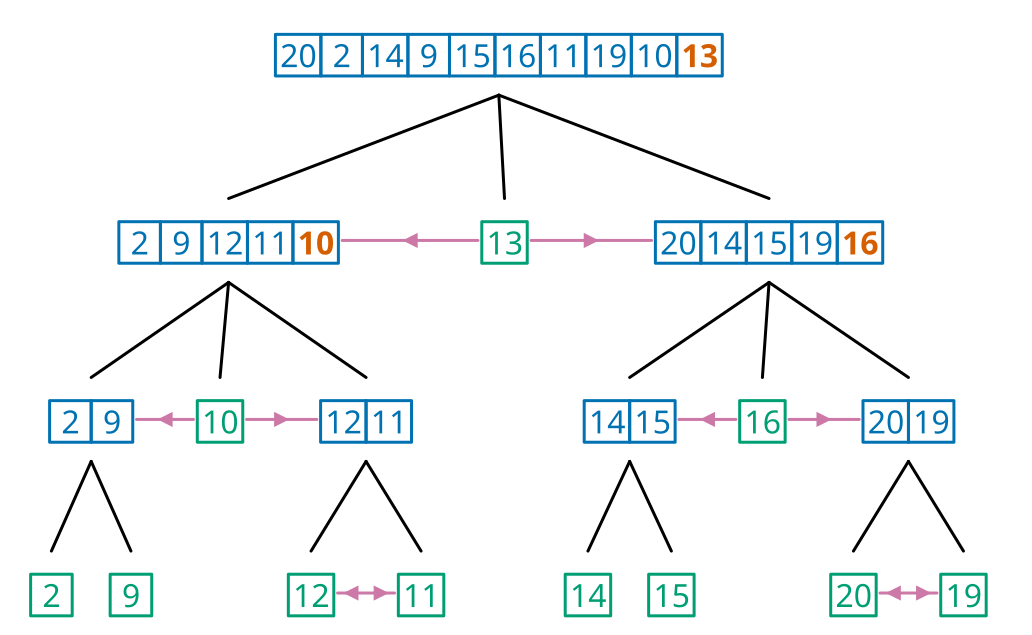
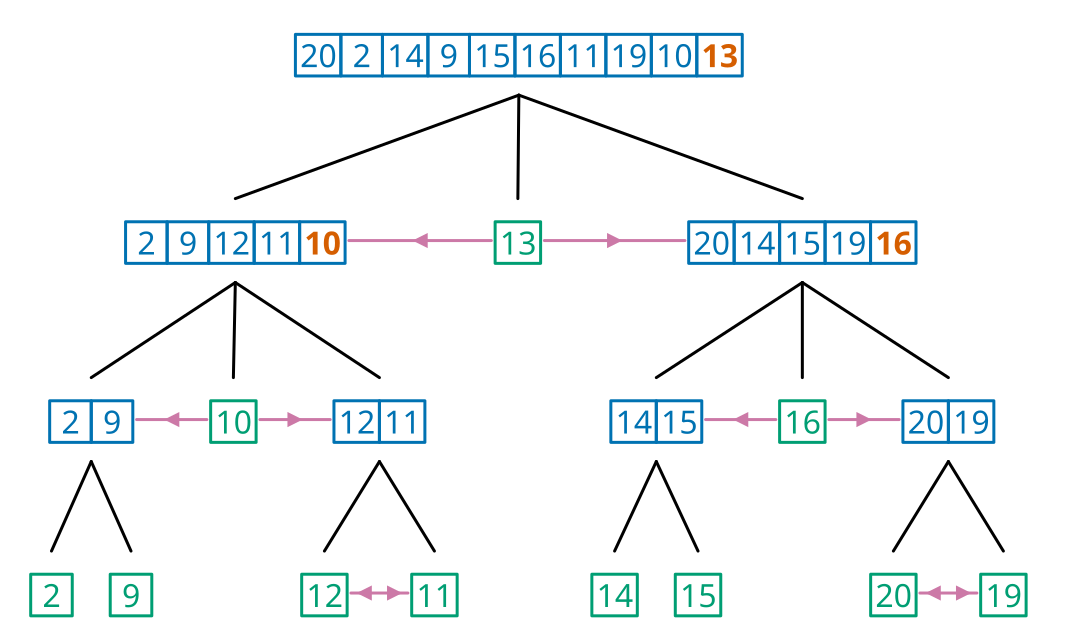
Keep the middle child under its parent when a pair is spread
Spreading a linked pair moves everything to its right, so a parent with three
children ends up centred over a span that grew on one side only, while the
middle child moved by whatever the spread gave it. The parent's edge to that
child came out a few pixels off vertical in the quicksort figure, where it had
been vertical before.

The offset of each middle child from the centre of its siblings' span is
recorded before the spread and given back afterwards, deepest parent first, by
shifting the side the drift points away from. The shift is rigid, so nothing
inside either side moves relative to itself, and it only ever widens the gap
across the middle.

Spreading symmetrically about the pair instead does not cover it: a pair
inside one wing of a three-way branch moves that wing's centre without moving
the middle child either way.

Only the quicksort figure moves, by 36 pixels of width.

diff --git a/lib/rsyntaxtree/base_graph.rb b/lib/rsyntaxtree/base_graph.rb
@@ -645,6 +645,58 @@ module RSyntaxTree
       ids
     end
 
+    # For every parent with an odd number of children, the offset of the
+    # middle child's centre from the centre of the children's span. In a
+    # balanced tree that offset is zero and the parent's edge to the middle
+    # child is vertical. The spread below moves the right side of a linked
+    # pair rightward, so re-centring the parents afterwards puts the span
+    # centre — and the parent — off the middle child. Recorded before the
+    # spread so the pass can hand the alignment back; see
+    # restore_middle_child_alignment.
+    def middle_child_alignment
+      @element_list.get_elements
+                   .reject { |e| e.children.empty? || e.children.size.even? }
+                   .to_h do |p|
+        kids = p.children.map { |c| @element_list.get_id(c) }
+        centers = kids.map { |k| k.horizontal_indent + k.content_width / 2.0 }
+        mid = kids[kids.size / 2]
+        [p.id, (mid.horizontal_indent + mid.content_width / 2.0) - (centers.min + centers.max) / 2.0]
+      end
+    end
+
+    # Undo whatever the spread did to the middle-child alignment of every
+    # odd-child parent, deepest first. The drift is cancelled by shifting
+    # the whole side the drift points away from: when the span centre ran
+    # right of the middle child, everything right of the middle child's
+    # subtree moves right by twice the drift (moving the span centre back
+    # by exactly the drift). The side moves rigidly, so no gap inside it
+    # changes, and the gap across the middle only widens — no overlaps.
+    def restore_middle_child_alignment(before)
+      parents = @element_list.get_elements
+                             .reject { |e| e.children.empty? || e.children.size.even? }
+      parents.sort_by { |p| -p.level }.each do |p|
+        kids = p.children.map { |c| @element_list.get_id(c) }
+        mid = kids[kids.size / 2]
+        centers = kids.map { |k| k.horizontal_indent + k.content_width / 2.0 }
+        dx = (mid.horizontal_indent + mid.content_width / 2.0) - (centers.min + centers.max) / 2.0
+        drift = dx - before[p.id]
+        next if drift.abs < 0.01
+
+        if drift.positive?
+          split = get_rightmost(mid.id)
+          @element_list.get_elements.each do |e|
+            e.horizontal_indent += drift * 2 if e.horizontal_indent >= split - 0.001
+          end
+        else
+          split = get_leftmost(mid.id)
+          @element_list.get_elements.each do |e|
+            e.horizontal_indent += drift * 2 if e.horizontal_indent + e.content_width <= split + 0.001
+          end
+        end
+        node_centering
+      end
+    end
+
     # Push linked pairs apart until the gap between their boxes holds a
     # full-size arrow. Runs after the tidy passes: a compression pass would
     # simply undo any room reserved in the width calculation, while shifting
@@ -664,6 +716,7 @@ module RSyntaxTree
 
       hct = @global[:height_connector_to_text]
       required = @global[:h_gap_between_nodes] * LINK_ARROW_CLEARANCE
+      alignment_before = middle_child_alignment
       spread = false
       pairs.map { |a, b| [a, b].sort_by(&:horizontal_indent) }
            .sort_by { |a, _b| a.horizontal_indent }
@@ -690,6 +743,10 @@ module RSyntaxTree
       return unless spread
 
       node_centering
+      # The spread pushed the right side of each linked pair rightward, which
+      # pulls an odd-child parent's span centre off its middle child (the
+      # middle edge slants). Give the alignment back before settling.
+      restore_middle_child_alignment(alignment_before)
       normalize_horizontal
       # The dynamic connector height couples level spacing to the horizontal
       # spread, so let it settle against the widened layout.

diff --git a/test/node_styling_test.rb b/test/node_styling_test.rb
@@ -801,6 +801,56 @@ end
     end
   end
 
+  # In a balanced tree the edge from an odd-child parent to its middle child
+  # is vertical. The link spread pushes the right side of a pair rightward,
+  # which can pull the parent's span centre off that middle child — the edge
+  # comes out a few pixels off vertical. Assert the offset stays below a
+  # pixel, for a plain balanced tree and for one whose wings are linked.
+  def connector_dxs(doc)
+    doc.css("line").filter_map do |l|
+      next unless l["style"].to_s.include?("stroke:black")
+
+      dx = (l["x1"].to_f - l["x2"].to_f).abs
+      dy = (l["y1"].to_f - l["y2"].to_f).abs
+      dx if dy > 30
+    end
+  end
+
+  def test_middle_edge_stays_vertical_without_links
+    opts = @base_opts.merge(data: "[S [A [B u] [C v] [D w]] [E x]]")
+    doc = Nokogiri::XML(RSyntaxTree::RSGenerator.new(opts).draw_svg)
+
+    assert connector_dxs(doc).min < 1.0, "no vertical connector found at all"
+    connector_dxs(doc).each do |dx|
+      assert dx < 1.0 || dx > 10, "a slightly slanted connector: dx=#{dx.round(2)}"
+    end
+  end
+
+  def test_middle_edge_stays_vertical_when_wings_are_linked
+    # Three children, the outer two linked: spreading the pair must not
+    # slant the parent's edge to the middle child.
+    opts = @base_opts.merge(data: "[S [A [##1+-1] [##2] [##3+-1]] [B x]]")
+    doc = Nokogiri::XML(RSyntaxTree::RSGenerator.new(opts).draw_svg)
+
+    connector_dxs(doc).each do |dx|
+      assert dx < 1.0 || dx > 10, "a slightly slanted connector: dx=#{dx.round(2)}"
+    end
+  end
+
+  def test_043_middle_edges_are_vertical
+    # The quicksort figure is three nested three-way splits; its middle
+    # edges measured vertical before the link spread and slanted after it.
+    require_relative "../dev/example_options"
+    _name, opts = ExampleOptions.load(File.expand_path("../docs/_examples/043.md", __dir__))
+    doc = Nokogiri::XML(RSyntaxTree::RSGenerator.new(opts).draw_svg)
+
+    near_vertical = connector_dxs(doc).select { |dx| dx < 10 }
+    assert_operator near_vertical.size, :>=, 3, "the three middle edges should be near-vertical"
+    near_vertical.each do |dx|
+      assert_operator dx, :<, 1.0, "a middle edge off vertical: dx=#{dx.round(2)}"
+    end
+  end
+
   # ===================
   # Hyphen readings
   # ===================
